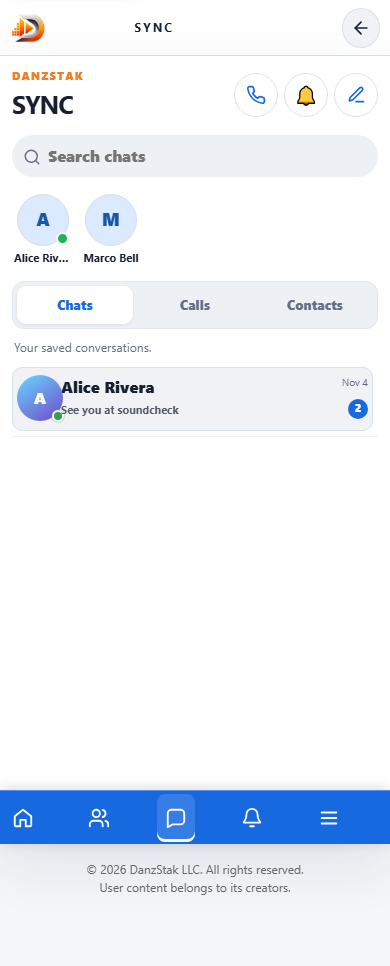
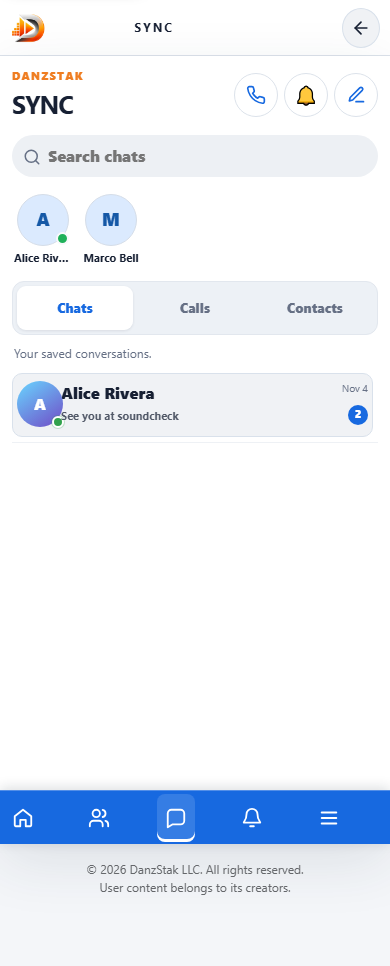
Fix Feed-to-SYNC navigation and touch targets

diff --git a/feed.html b/feed.html
@@ -7,7 +7,7 @@
 <meta name="theme-color" content="#1769e0">
 <meta name="referrer" content="strict-origin-when-cross-origin">
 <meta name="robots" content="noindex,nofollow,noarchive">
-<meta http-equiv="Content-Security-Policy" content="default-src 'self'; connect-src 'self' https://api.danzstak.com https://danzstak-call-signaling-mediabucket-abx9qfpinhje.s3.us-west-1.amazonaws.com; script-src 'self' 'sha256-QZ8jKYgYOEj9eeceNlOPJd6dFCBEFkphKX7fieAelIs='; style-src 'self' 'unsafe-inline'; img-src 'self' data: blob: https://danzstak-call-signaling-mediabucket-abx9qfpinhje.s3.us-west-1.amazonaws.com; media-src 'self' blob: https:; frame-src 'self' https://www.youtube-nocookie.com https://player.vimeo.com https://www.tiktok.com https://www.facebook.com https://www.instagram.com https://www.dailymotion.com https://streamable.com https://player.twitch.tv https://clips.twitch.tv; object-src 'none'; base-uri 'none'; form-action 'self' https://api.danzstak.com; frame-ancestors 'none'; upgrade-insecure-requests">
+<meta http-equiv="Content-Security-Policy" content="default-src 'self'; connect-src 'self' https://api.danzstak.com https://danzstak-call-signaling-mediabucket-abx9qfpinhje.s3.us-west-1.amazonaws.com; script-src 'self' 'sha256-UWT0uW5pMULqVLIzI65FCyb9huc5dBcs7HlWlJG0JY0='; style-src 'self' 'unsafe-inline'; img-src 'self' data: blob: https://danzstak-call-signaling-mediabucket-abx9qfpinhje.s3.us-west-1.amazonaws.com; media-src 'self' blob: https:; frame-src 'self' https://www.youtube-nocookie.com https://player.vimeo.com https://www.tiktok.com https://www.facebook.com https://www.instagram.com https://www.dailymotion.com https://streamable.com https://player.twitch.tv https://clips.twitch.tv; object-src 'none'; base-uri 'none'; form-action 'self' https://api.danzstak.com; frame-ancestors 'none'; upgrade-insecure-requests">
 <link rel="manifest" href="manifest.webmanifest">
 <link rel="icon" href="assets/favicon-32.png?v=3" sizes="32x32" type="image/png">
 <link rel="icon" href="assets/favicon-192.png?v=3" sizes="192x192" type="image/png">
@@ -382,7 +382,7 @@ video.post-media { height:auto; max-height:none; object-fit:contain; object-posi
   <nav class="topnav">
     <button type="button" data-route="home" aria-label="Home" title="Home"><svg class="nav-icon" viewBox="0 0 24 24" fill="none" stroke="currentColor" stroke-width="2" stroke-linecap="round" stroke-linejoin="round" aria-hidden="true"><path d="m3 10 9-7 9 7v10a1 1 0 0 1-1 1h-5v-7H9v7H4a1 1 0 0 1-1-1V10Z"/></svg></button>
     <button type="button" data-feature="Friends" aria-label="Find friends and see who is online" title="Find friends"><svg class="nav-icon" viewBox="0 0 24 24" fill="none" stroke="currentColor" stroke-width="2" stroke-linecap="round" stroke-linejoin="round" aria-hidden="true"><circle cx="9" cy="8" r="3"/><path d="M3 21v-3a6 6 0 0 1 12 0v3M16 5a3 3 0 0 1 0 6M18 15a5 5 0 0 1 3 5v1"/></svg></button>
-    <button type="button" id="messagesNav" aria-controls="messageDrawer" aria-expanded="false" aria-label="Messages" title="Messages"><svg class="nav-icon" viewBox="0 0 24 24" fill="none" stroke="currentColor" stroke-width="2" stroke-linecap="round" stroke-linejoin="round" aria-hidden="true"><path d="M21 11a8 8 0 0 1-8 8H7l-5 3V11a9 9 0 0 1 19 0Z"/><path d="M7 10h10M7 14h7"/></svg></button>
+    <button type="button" id="messagesNav" aria-controls="messageDrawer" aria-expanded="false" aria-label="SYNC" title="SYNC"><svg class="nav-icon" viewBox="0 0 24 24" fill="none" stroke="currentColor" stroke-width="2" stroke-linecap="round" stroke-linejoin="round" aria-hidden="true"><path d="M21 11a8 8 0 0 1-8 8H7l-5 3V11a9 9 0 0 1 19 0Z"/><path d="M7 10h10M7 14h7"/></svg></button>
     <button type="button" data-feature="Notifications" aria-controls="notificationDrawer" aria-expanded="false" aria-label="Notifications" title="Notifications"><svg class="nav-icon" viewBox="0 0 24 24" fill="none" stroke="currentColor" stroke-width="2" stroke-linecap="round" stroke-linejoin="round" aria-hidden="true"><path d="M18 8a6 6 0 0 0-12 0c0 7-3 7-3 9h18c0-2-3-2-3-9M10 21h4"/></svg><span class="nav-count" aria-hidden="true" hidden></span></button>
     <button type="button" class="mobile-menu-control" aria-controls="mobileNavMenu" aria-expanded="false" aria-label="Menu" title="Menu"><svg class="nav-icon" viewBox="0 0 24 24" fill="none" stroke="currentColor" stroke-width="2" stroke-linecap="round" stroke-linejoin="round" aria-hidden="true"><path d="M4 6h16M4 12h16M4 18h16"/></svg></button>
   </nav>
@@ -406,6 +406,7 @@ video.post-media { height:auto; max-height:none; object-fit:contain; object-posi
       <a href="feed.html?view=feed" class="active"><span class="menu-icon menu-brand-icon" aria-hidden="true"><img src="assets/danzstak-d-icon.png" alt=""></span><span class="menu-label">Your Mix</span></a>
       <a href="profile.html"><span class="menu-icon" data-menu-icon="user" aria-hidden="true"></span><span class="menu-label">My Profile</span></a>
       <a href="#friends" data-feature="Friends"><span class="menu-icon" data-menu-icon="users" aria-hidden="true"></span><span class="menu-label">Friends</span></a>
+      <a href="messages.html"><span class="menu-icon" data-menu-icon="chat" aria-hidden="true"></span><span class="menu-label">SYNC</span></a>
       <a href="#groups" data-feature="Groups"><span class="menu-icon" data-menu-icon="users" aria-hidden="true"></span><span class="menu-label">Tribes</span></a>
       <a href="#photos" data-feature="Photos"><span class="menu-icon" data-menu-icon="image" aria-hidden="true"></span><span class="menu-label">Photos</span></a>
       <a href="#videos" data-feature="Videos"><span class="menu-icon" data-menu-icon="film" aria-hidden="true"></span><span class="menu-label">Videos</span></a>
@@ -1708,8 +1709,8 @@ function openMessageDrawer(contact = "", answerCall = false, callId = "") {
     drawer.id = "messageDrawer";
     drawer.className = "message-drawer";
     drawer.setAttribute("role", "dialog");
-    drawer.setAttribute("aria-label", "Messages");
-    drawer.innerHTML = '<div class="message-drawer-bar"><span>Chats</span><button type="button" class="message-drawer-close" aria-label="Close messages">×</button></div><div class="message-drawer-loading" role="status">Loading chats…</div><iframe title="DanzStak messages"></iframe>';
+    drawer.setAttribute("aria-label", "SYNC");
+    drawer.innerHTML = '<div class="message-drawer-bar"><span>SYNC</span><button type="button" class="message-drawer-close" aria-label="Close SYNC">×</button></div><div class="message-drawer-loading" role="status">Loading SYNC…</div><iframe title="DanzStak SYNC"></iframe>';
     drawer.querySelector(".message-drawer-close").addEventListener("click", () => { drawer.hidden = true; drawer.querySelector("iframe")?.contentWindow?.postMessage({ type: "danzstak-chat-hidden" }, location.origin); dispatchEvent(new CustomEvent("danzstak:message-drawer", { detail: { open: false } })); });
     drawer.querySelector(".message-drawer-close").addEventListener("click", () => { launcher.setAttribute("aria-expanded", "false"); (messageDrawerPreviousFocus || launcher).focus(); messageDrawerPreviousFocus = null; });
     drawer.addEventListener("keydown", event => { if (event.key === "Escape") { event.preventDefault(); drawer.querySelector(".message-drawer-close").click(); } });

diff --git a/assets/sync.css b/assets/sync.css
@@ -15,7 +15,7 @@
 .sync-kicker{display:block;margin-bottom:1px;color:var(--sync-orange);font-size:.68rem;font-weight:850;letter-spacing:.12em;text-transform:uppercase}
 .chats-heading h1{margin:0;font-size:1.55rem;letter-spacing:-.03em}
 .sync-sections{display:grid!important;grid-template-columns:repeat(3,minmax(0,1fr));gap:4px!important;padding:4px!important;border:1px solid var(--sync-line);border-radius:12px;background:#edf1f6}
-.sync-sections button{min-width:0!important;min-height:38px!important;padding:7px 5px!important;border:0!important;border-radius:9px!important;background:transparent!important;color:var(--sync-muted)!important;font-size:.82rem!important;font-weight:800!important;box-shadow:none!important}
+.sync-sections button{min-width:0!important;min-height:44px!important;padding:7px 5px!important;border:0!important;border-radius:9px!important;background:transparent!important;color:var(--sync-muted)!important;font-size:.82rem!important;font-weight:800!important;box-shadow:none!important}
 .sync-sections button.active{background:var(--sync-surface)!important;color:var(--sync-blue)!important;box-shadow:0 1px 3px #10182818!important}
 .sync-section-note{min-height:18px;margin:8px 2px;color:var(--sync-muted);font-size:.76rem;line-height:1.35}
 .chat-sidebar{background:var(--sync-surface)}

diff --git a/messages.html b/messages.html
@@ -14,7 +14,7 @@
 <script src="assets/display-preferences.js?v=410"></script>
 <link rel="stylesheet" href="assets/soft-ui.css?v=427">
 <link rel="stylesheet" href="assets/chat.css?v=451">
-<link rel="stylesheet" href="assets/sync.css?v=2">
+<link rel="stylesheet" href="assets/sync.css?v=3">
 <link rel="stylesheet" href="assets/make-plans.css?v=2">
 <link rel="stylesheet" href="assets/icon-buttons.css?v=4">
 <link rel="stylesheet" href="assets/user-content-links.css?v=1">

diff --git a/service-worker.js b/service-worker.js
@@ -1,6 +1,6 @@
 "use strict";
 
-const CACHE = "danzstak-shell-v685";
+const CACHE = "danzstak-shell-v686";
 const SHELL = [
   "/assets/offline.js", "/assets/identity-media.js", "/assets/user-content-links.js", "/assets/user-content-links.css",
   "/assets/icon-buttons.js", "/assets/icon-buttons.css", "/assets/mobile-design-system.css", "/assets/responsive-media.js", "/assets/responsive-media.css",
